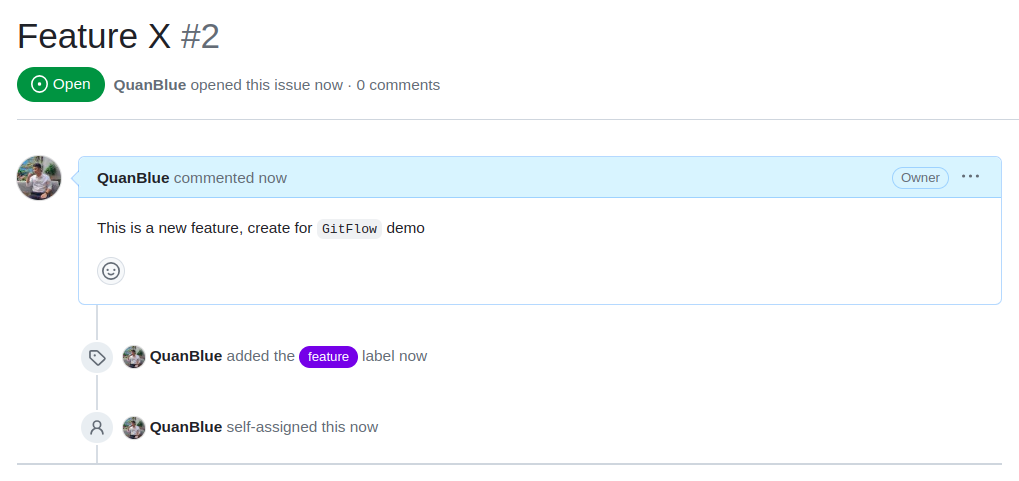
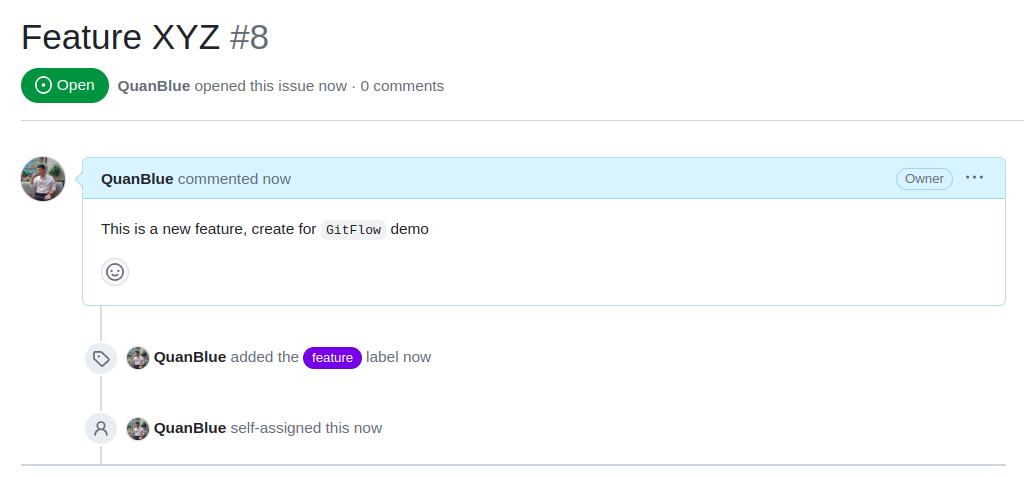
update gitflow

diff --git a/Version Control/Git/GitFlow.md b/Version Control/Git/GitFlow.md
@@ -109,30 +109,19 @@
 
 ### Prequisites
 
--  Create and Switch to `develop` branch
+# Create and Switch to `develop` branch
 
-   ```sh
-   git branch develop
-   git checkout develop
-   ```
+git checkout -b develop
 
-   or
+# Push `develop` branch to remote
 
-   ```sh
-   git checkout -b develop
-   ```
+git push -u origin develop
 
--  Push `develop` branch to remote
-
-   ```sh
-   git push -u origin develop
-   ```
-
-### Process
+### ss
 
 > **Note:** `Issue tab` for creating a new task.
 
-**Step 1:** Team lead creates a task for developer.
+**Step 1:** **Teamlead** creates a task for developer.
 
 <div align="center">
 
@@ -141,22 +130,28 @@
 
 </div>
 
-**Step 2:** Developer has a task to do.
+**Step 2:** **Developer** has a task to do.
 
 <div align="center">
 
 ![Todo task](assets/GitFlow/Dev-Proc/issue.png)
-<i>Todo task - Issue ID: #2</i>
+<i>Todo task - Issue ID: #8</i>
 
 </div>
 
-**Step 3:** Developer branches `develop`, let's call it `feature/2-x`.
-
-> **Note:** Feature branch name syntax: `feature/[issueID]-[issueName]`
+**Step 3:** **Developer** branches `develop`, let's call it `feature/8-xyz`.
 
 ```sh
-git checkout -b feature/2-x
+
+
+# Create and Switch to `feature/8-xyz` branch
+git checkout -b feature/8-xyz
+
+# Push `feature/8-xyz` branch to remote
+git push -u origin feature/8-xyz
 ```
+
+> **Note:** Feature branch name syntax: `feature/[issueID]-[issueName]`
 
 **Step 4:** Developer works on feature/x.
 
@@ -182,10 +177,10 @@ git pull origin develop
 ```sh
 # commit
 git add .
-git commit -m "#2 - init feature/2-x"
+git commit -m "#2 - init feature/8-xyz"
 
 # push
-git push origin feature/2-x
+git push origin feature/8-xyz
 ```
 
 > **Note:** commit message syntax: `#[issueID] - [commit message]`
@@ -196,7 +191,7 @@ git push origin feature/2-x
 
 -  Pull request unit, integration and regression tests are run on build server.
 
-**Step 7:** Admin merges pull request into `develop` branch which is built and deployed to staging for QA & UAT.
+**Step 7:** Teamlead merges pull request into `develop` branch.
 
 -  Build server deletes remote `feature/5-xyz`.
 
